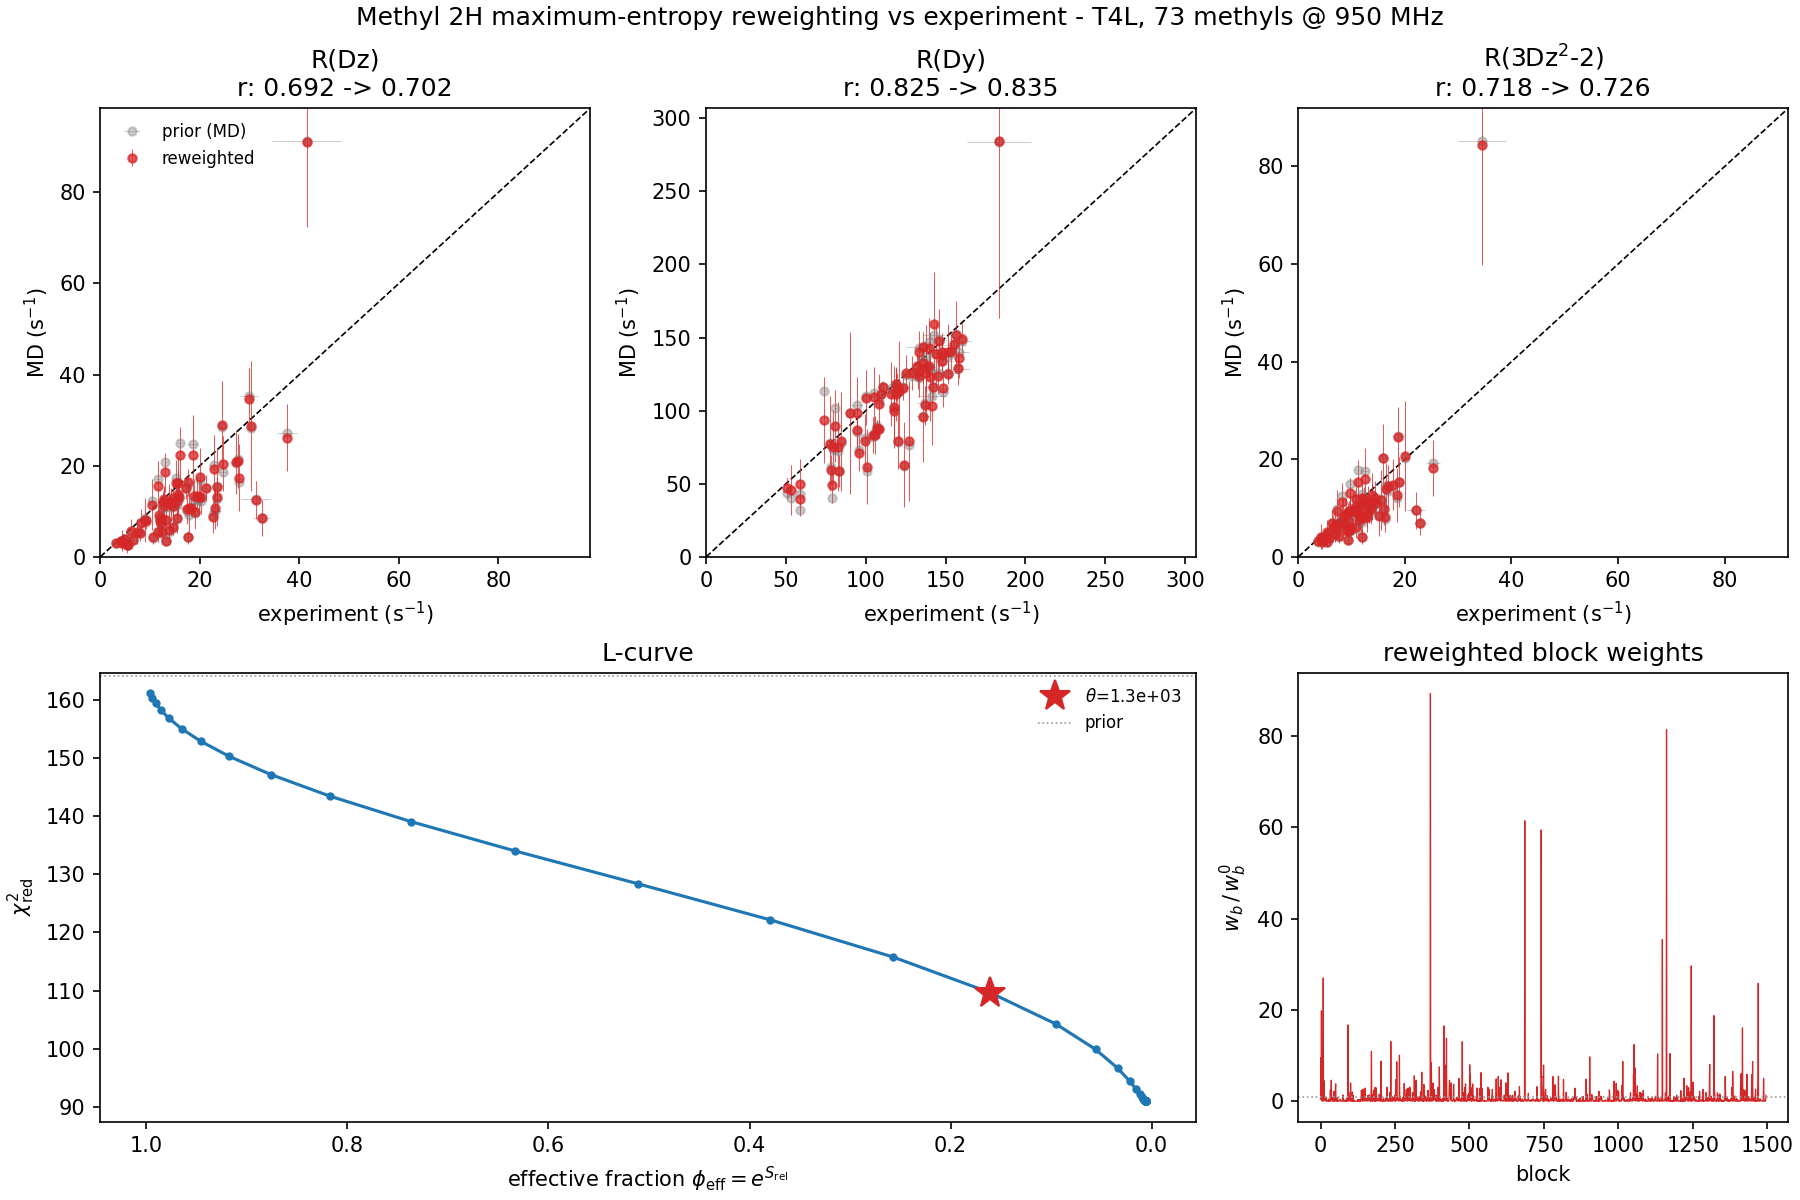
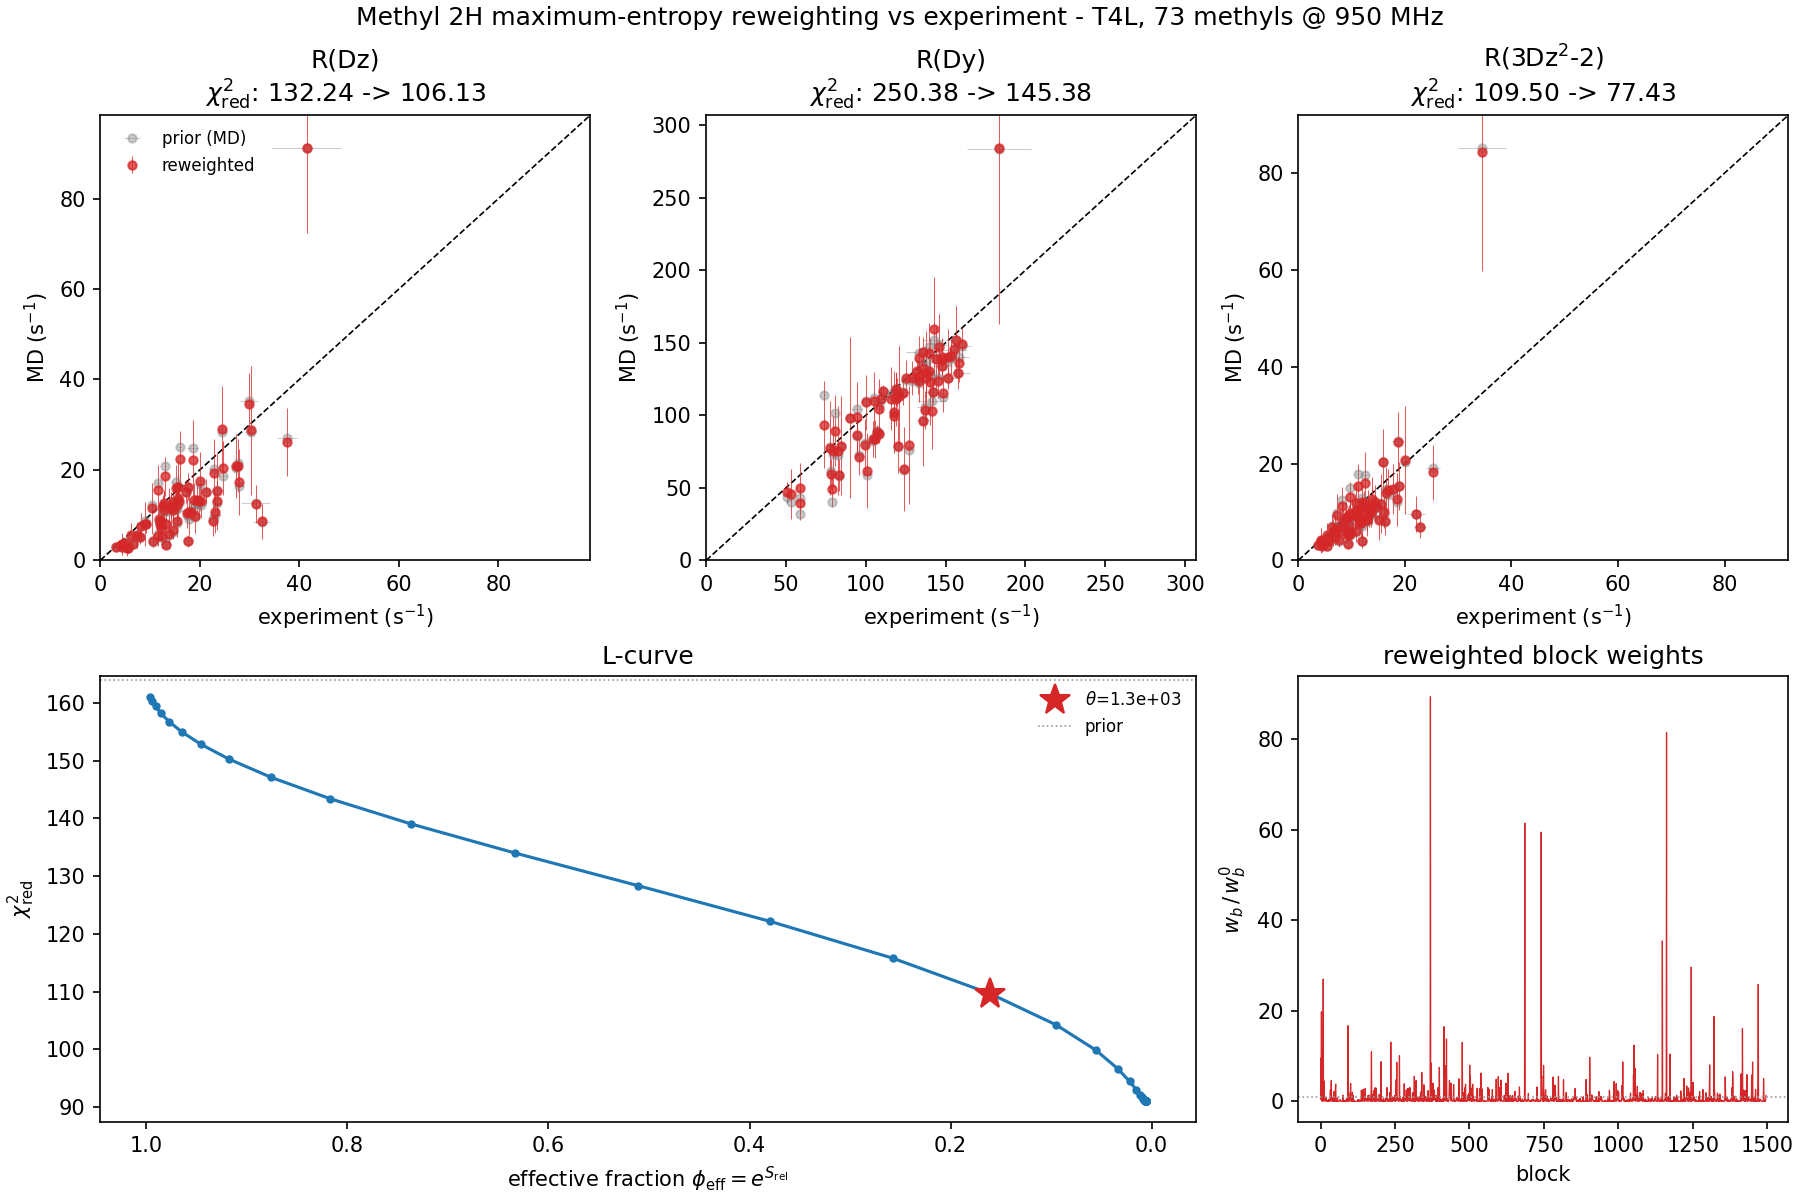
updated rw val to use chi2 instead of corrcoef

diff --git a/examples/validate_ch3_reweight.py b/examples/validate_ch3_reweight.py
@@ -90,9 +90,10 @@ def main():
                     color="0.5", elinewidth=0.5, capsize=0, label="prior (MD)")
         ax.errorbar(x, rew_avg[ri], yerr=rew_std[ri], fmt="o", ms=4, alpha=0.75,
                     color="tab:red", elinewidth=0.5, capsize=0, label="reweighted")
-        rp = np.corrcoef(x, prior_avg[ri])[0, 1]
-        rr = np.corrcoef(x, rew_avg[ri])[0, 1]
-        ax.set_title(f"{RATE_NAMES[ri]}\nr: {rp:.3f} -> {rr:.3f}")
+        chi2p = np.mean(((prior_avg[ri] - x) / xe) ** 2)
+        chi2r = np.mean(((rew_avg[ri] - x) / xe) ** 2)
+        ax.set_title(fr"{RATE_NAMES[ri]}" "\n"
+                     fr"$\chi^2_{{\rm red}}$: {chi2p:.2f} -> {chi2r:.2f}")
         ax.set_xlabel("experiment (s$^{-1}$)")
         ax.set_ylabel("MD (s$^{-1}$)")
         ax.set_xlim(lim)
